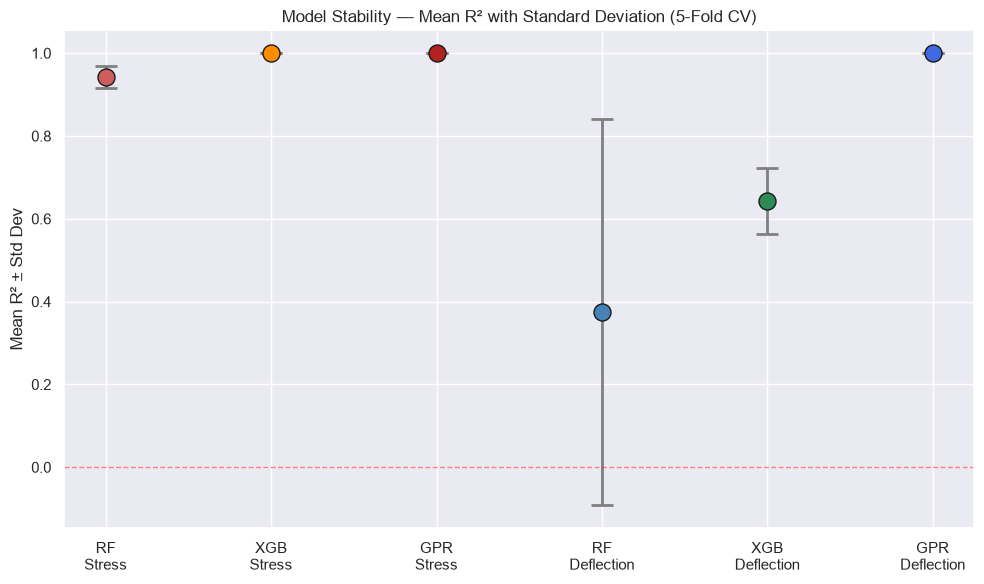
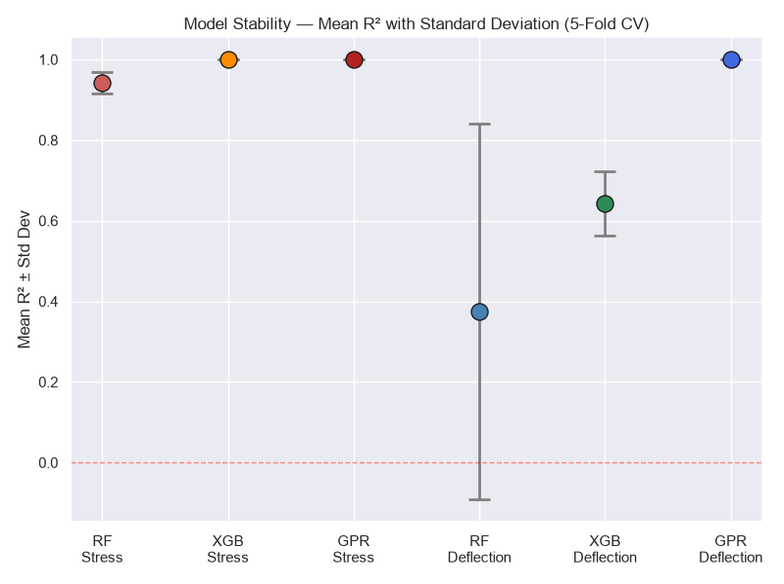
final polish of Github repo with README updated

diff --git a/README.md b/README.md
@@ -1,0 +1,382 @@
+# Wind Turbine Blade: Structural Analysis & ML Prediction
+
+An engineering design tool and machine learning framework that evaluates and predicts wind turbine blade structural responses—specifically **equivalent von-Mises stress** and **tip deflection**—under varying geometric shapes, materials, and aerodynamic wind loads.
+
+By bridging the gap between heavy numerical finite element simulations and rapid design iterations, this framework integrates **aerodynamic Blade Element Momentum (BEM) theory, parametric CAD modeling, FEA simulations, and predictive Machine Learning pipelines** into a single, cohesive workflow.
+
+---
+
+## Project Overview
+
+Designing wind turbine blades is a balancing act between aerodynamic output and structural limits. Evaluating a new blade geometry typically requires editing CAD models and running hours of computationally expensive Finite Element Analysis (FEA) inside solvers like ANSYS or Abaqus. This creates a severe bottleneck in the early exploration phase. 
+
+This repository solves this bottleneck. By training machine learning pipelines over a multi-variable parametric design space, we can bypass the heavy FEA steps during initial iterations. The result? **Instantaneous structural predictions**—learning the underlying patterns of stress and deflection from simulation data—allowing engineers to perform rapid parameter sweeps and design space exploration in seconds.
+
+```mermaid
+flowchart TD
+    A([CAD Design]) --> B([ANSYS Simulations])
+    B --> C[(Engineering Dataset)]
+    C --> D([Data Processing])
+    D --> E{{"Machine Learning"}}
+    E --> F([Random Forest])
+    E --> G([XGBoost])
+    E --> K([Gaussian Process])
+    F --> H([Model Evaluation])
+    G --> H
+    K --> H
+    H --> I([Sensitivity Analysis])
+    I --> J([Final GPR Model])
+
+    style A fill:#27ae60,stroke:#1e8449,stroke-width:1px,color:#fff
+    style B fill:#2980b9,stroke:#1f618d,stroke-width:1px,color:#fff
+    style C fill:#27ae60,stroke:#1e8449,stroke-width:1px,color:#fff
+    style D fill:#d35400,stroke:#a04000,stroke-width:1px,color:#fff
+    style E fill:#8e44ad,stroke:#6c3483,stroke-width:1px,color:#fff
+    style F fill:#c0392b,stroke:#922b21,stroke-width:1px,color:#fff
+    style G fill:#c0392b,stroke:#922b21,stroke-width:1px,color:#fff
+    style H fill:#2980b9,stroke:#1f618d,stroke-width:1px,color:#fff
+    style I fill:#27ae60,stroke:#1e8449,stroke-width:1px,color:#fff
+    style J fill:#8e44ad,stroke:#6c3483,stroke-width:1px,color:#fff
+    style K fill:#c0392b,stroke:#922b21,stroke-width:1px,color:#fff
+```
+
+---
+
+## Project Structure
+
+```
+├── ANSYS/              # FEA simulation scripts & results
+├── CAD/                # Parametric blade geometry models
+├── Dataset/            # Multi-variable training dataset
+├── Notes/              # Design iteration & research notes
+├── Python/             # Jupyter notebooks (exploration, training, analysis)
+├── Visualisations/     # Plots, charts & exported figures
+├── models/             # Serialized trained models
+├── src/                # Core Python package (processing, ML, utilities)
+├── predict.py          # CLI: one-shot structural prediction
+├── requirements.txt    # Python dependencies
+└── train_and_save_models.py  # CLI: train & persist ML models
+```
+
+---
+
+## Aerodynamics & Structural Physics Foundations
+
+### 1. Cantilever Beam Analogy
+Structurally, a wind turbine blade behaves like a tapered, twisted cantilever beam. The blade is rigidly fixed at the rotor hub (the root) and projects out freely to the tip, bearing the brunt of aerodynamic forces.
+
+* **Bending Moment ($M$):** $M(x) = \int_{x}^{L} q(r)(r - x) \, dr$, where $q(r)$ represents the aerodynamic line load distribution.
+* **Moment of Inertia ($I$):** For hollow airfoil profiles, bending stiffness is dictated by $E \cdot I$, where $E$ is the material's Young's Modulus and $I$ is the second moment of area (governed by the airfoil's chord and thickness).
+* **Normal Bending Stress ($\sigma$):** $\sigma = \frac{M \cdot y}{I}$, where $y$ is the distance from the cross-section's neutral axis to its outer fibers.
+
+### 2. High-Fidelity Power Scaling Laws
+Applying classical Euler-Bernoulli beam theory reveals that the blade's structural performance is highly sensitive to its physical dimensions:
+* **Deflection ($\delta$):** Scales proportionally to the fourth power of length ($L$) and inversely to the cube of the chord ($c$):
+  $$\delta \propto \frac{L^4}{c^3}$$
+* **Bending Stress ($\sigma$):** Scales with the square of length ($L$) and inversely with the square of the chord ($c$):
+  $$\sigma \propto \frac{L^2}{c^2}$$
+
+> **Why do these scaling exponents remain constant despite the complex twist and taper?** 
+> 
+> Under a steady wind load, total aerodynamic force scales with the projected blade area ($F \propto P \cdot L \cdot c$). Because our blade profiles are aerodynamically scaled (thickness is a constant ratio of local chord, $t \propto c$), the cross-sectional moment of inertia scales as $I \propto c^4$. 
+> 
+> While the blade is tapered and twisted along its span, **geometric self-similarity** is maintained—the relative taper profile ($c_{\text{tip}}/c_{\text{root}}$) and twist distribution relative to span fraction ($r/L$) remain identical across all models. When integrated along the length of the beam, these geometric variations condense into a constant, dimensionless scaling multiplier (a "shape factor"). Consequently, the twist and taper do not alter the underlying power exponents; the deflection and stress scaling laws remain intact.
+
+This means that modifying geometric dimensions—specifically extending blade lengths or adjusting chord taper—affects the structure far more aggressively than changing materials.
+
+<p align="center">
+  <img src="Visualisations/power_law_plots.png" width="90%" alt="Power Law Scaling Curves vs Simulation Data" />
+</p>
+
+### 3. Aerodynamic Loads, Betz Limit, and BEM Theory
+* **Lift ($L_F$) & Drag ($D_F$):** BEM theory calculates the aerodynamic loading by modeling the relative velocities at each span element, translating airfoil drag and lift distributions into axial and angular induction factors.
+* **Twist Distribution:** Because rotational velocity increases linearly toward the tip ($v = \Omega \cdot r$) while the incoming wind speed remains constant, the relative wind angle changes along the blade's span. We twist the blade from root to tip to maintain an optimal **Angle of Attack (AoA)**.
+* **Betz Limit & Wake Losses:** Fluid motion dictates that the maximum kinetic energy capture from wind is capped at **59.3%** (the Betz Limit). In practice, wake rotation (the swirl left in the wake of the rotor) reduces this efficiency, which is modeled using BEM theory induction factors.
+
+---
+
+## Parametric CAD & Mesh Convergence
+
+We parameterized the 3D blade geometry in Autodesk Fusion 360 using the aerodynamic **NACA 4412 airfoil profile**:
+
+<p align="center">
+  <img src="Visualisations/Desgin_and_initial_Simulation/NACA 4412 profile.png" width="48%" alt="NACA 4412 Profile Definition" />
+  <img src="Visualisations/Desgin_and_initial_Simulation/Blade_Design.png" width="48%" alt="Parametric Fusion 360 CAD Model" />
+</p>
+
+### 1. Chord Taper Formula
+To reduce excessive tip mass, minimize the bending moment arm, and decrease aerodynamical drag, the chord length decreases linearly from the root to the tip according to:
+$$c(r) = C_{\text{root}} \left( 1 - 0.7 \frac{r}{L_{\text{blade}}} \right)$$
+
+### 2. Twist Distribution
+The aerodynamic angle of attack changes progressively across the blade's span to maintain an optimal angle of attack:
+* **0% span (Hub/Root):** $14.0^\circ$
+* **25% span:** $10.5^\circ$
+* **50% span:** $7.5^\circ$
+* **75% span:** $4.7^\circ$
+* **100% span (Tip):** $2.0^\circ$
+
+### 3. Mesh Convergence Study
+Before generating our database, we performed a mesh sensitivity study inside ANSYS Mechanical to balance numerical accuracy and compute costs. By analyzing how different element sizes affect equivalent stress findings, we identified:
+* **Selected Element Size:** $3 \times 10^{-3}\text{ m}$ ($3\text{ mm}$) global size.
+* **Rationale:** This size is the exact convergence inflection point. Choosing smaller sizes yielded less than a $0.5\%$ change in stress values, while larger mesh sizes failed to capture the high-strain regions at the trailing edge.
+
+<p align="center">
+  <img src="Visualisations/Desgin_and_initial_Simulation/simulation-conditions.png" width="48%" alt="ANSYS Load and Boundary Conditions setup" />
+  <img src="Visualisations/Load_study/1000Pa_Equivalent_Stress.png" width="48%" alt="ANSYS equivalent stress contour result" />
+</p>
+
+---
+
+## Database Building (Design of Experiments)
+
+To compile our training dataset, we ran a full $3^4$ factorial Design of Experiments (DoE) in ANSYS Mechanical, executing and extracting **81 high-fidelity structural simulations** that cover the boundary extremes of our design envelope:
+
+### Parametric Design Levels:
+1. **Blade Length ($L_{\text{blade}}$):** $0.8\text{ m}$, $1.2\text{ m}$, $1.6\text{ m}$ (capturing small-to-utility scale limits)
+2. **Root Chord Length ($C_{\text{root}}$):** $150\text{ mm}$, $200\text{ mm}$, $300\text{ mm}$ (spanning slender to stocky geometries)
+3. **Applied Pressure (Wind Load):** $500\text{ Pa}$, $1000\text{ Pa}$, $1500\text{ Pa}$ (representing different wind load conditions from low to high)
+4. **Blade Material (Isotropic Properties):**
+   * **Aluminium Alloy:** $\rho = 2700\text{ kg/m}^3$, $E = 69\text{ GPa}$, $\nu = 0.33$
+   * **Fiberglass Composite:** $\rho = 1900\text{ kg/m}^3$, $E = 25\text{ GPa}$, $\nu = 0.22$
+   * **Carbon Fiber Composite:** $\rho = 1600\text{ kg/m}^3$, $E = 120\text{ GPa}$, $\nu = 0.28$
+
+All simulation outputs mapping peak equivalent stress (MPa) and tip deflection (mm) are stored in [Dataset/simulation_matrix_updated_info.csv](Dataset/simulation_matrix_updated_info.csv).
+
+---
+
+## Machine Learning Predictor
+
+Our machine learning subsystem trains regressors using `scikit-learn`. The architecture wraps preprocessing steps and regression estimators into fully unified, reproducible pipelines to avoid silent feature leakage.
+
+### Model Overviews
+* **Random Forest:** An ensemble method that constructs multiple decision trees during training to output the mean prediction of individual trees, reducing overfitting while capturing non-linear relationships.
+* **XGBoost:** A powerful gradient boosting implementation that builds decision trees sequentially, focusing on correcting the errors of previous trees to achieve highly accurate, fine-tuned predictions.
+* **Gaussian Process Regression (GPR):** A non-parametric Bayesian approach that models data as a distribution over functions. It provides not just predictions, but also a measure of uncertainty (confidence intervals) for every output, making it highly suitable for engineering applications.
+
+### Data Preprocessing
+To prepare simulation data for training:
+* **Numerical Features** (Blade Length, Root Chord, and Applied Load) are normalized using a `StandardScaler`.
+* **Categorical Features** (Material) are one-hot encoded.
+* **Information Isolation:** These estimators are combined under a `ColumnTransformer` embedded directly inside our pipeline. This ensures preprocessing parameters are only fit on training splits, preventing **data leakage** during cross-validation folds.
+
+### Model Performance Comparison (Test Set Metrics)
+
+We evaluated all three regressors on unseen test splits. The final Gaussian Process Regression (GPR) with an anisotropic RBF kernel achieved near-perfect performance on both targets:
+
+| Target | Metric | Random Forest | XGBoost | **GPR (Final)** |
+| :--- | :---: | :---: | :---: | :---: |
+| **Equivalent Stress** | MAE | 1.747 MPa | 0.072 MPa | **0.0013 MPa** |
+| | RMSE | 2.234 MPa | 0.086 MPa | **0.0016 MPa** |
+| | $R^2$ | 0.9388 | 0.9999 | **1.0000** |
+| **Deflection** | MAE | 11.299 mm | 11.512 mm | **0.0016 mm** |
+| | RMSE | 20.172 mm | 22.862 mm | **0.0031 mm** |
+| | $R^2$ | 0.6960 | 0.6097 | **1.0000** |
+
+### Cross-Validation Results
+
+A single train/test split can be misleading, so we repeated the comparison under **5-fold cross-validation** (shuffled, `random_state=42`). Every model was scored five times, giving us both the mean $R^2$ and a sense of how stable it is:
+
+| Target | Metric | Random Forest | XGBoost | **GPR** |
+| :--- | :---: | :---: | :---: | :---: |
+| **Equivalent Stress** | Mean $R^2$ (5-fold) | 0.941 ± 0.027 | 0.9997 ± 0.0005 | **1.0000 ± 0.0000** |
+| | Mean MAE | 1.801 ± 0.583 MPa | 0.082 ± 0.038 MPa | **0.0025 ± 0.0019 MPa** |
+| **Deflection** | Mean $R^2$ (5-fold) | 0.375 ± 0.466 | 0.644 ± 0.080 | **1.0000 ± 0.0000** |
+| | Mean MAE | 14.00 ± 8.33 mm | 11.89 ± 8.24 mm | **0.0026 ± 0.0024 mm** |
+
+<p align="center">
+  <img src="Visualisations/Notebook_Plots/cross_validation_r2_boxplot.png" width="48%" alt="5-fold CV R² boxplot comparison" />
+  <img src="Visualisations/Notebook_Plots/cross_validation_r2_mean_stdev.png" width="48%" alt="5-fold CV mean R² with standard deviation" />
+</p>
+
+**Key insights:**
+1. **GPR is perfect *and* consistent.** It achieves $R^2 = 1.0000$ in **every** fold for both targets (per-fold $R^2 = [1, 1, 1, 1, 1]$). So the near-perfect test scores aren't a one-off lucky split — the model generalizes this well every time.
+2. **Random Forest breaks down on deflection.** A CV $R^2$ of $0.375 \pm 0.466$ swings wildly between folds, sometimes near-zero, because it can't represent the $L^4$ power-law behaviour. It simply isn't a reliable deflection model.
+3. **XGBoost shows the same weakness as on the test set.** Strong on stress ($0.9997$), but drops to $0.644$ on deflection.
+4. **Cross-validation and the test set agree.** GPR is the only model that hits both targets consistently, in every fold. That's what drove the model selection below.
+
+### Model Selection Rationale
+
+GPR was chosen as the final model over Random Forest and XGBoost for three reasons:
+
+1. **First model to master both targets.** Random Forest was decent on stress (R² 0.939) but unreliable on deflection (R² 0.696). XGBoost was near-perfect on stress (R² 0.9999) but overfit deflection (R² 0.6097 vs 0.999 train). GPR achieves R² 1.0000 on **both**, with near-zero error across the board. One unified model for the entire prediction tool.
+
+2. **Uncertainty quantification built in.** Unlike tree-based methods that return point estimates, GPR is Bayesian — every prediction comes with a confidence interval. For engineering decisions, knowing *how sure the model is* matters as much as the prediction itself.
+
+3. **Extracts more from the same data.** The anisotropic RBF kernel learns a separate length scale per input feature, letting the model automatically discover which parameters matter and at what resolution. The log-transform wrapper (`TransformedTargetRegressor` with `func=np.log`) turns power-law relationships into roughly linear ones, so the GP fits steep, multi-scale targets without numerical strain.
+
+**Why is GPR this accurate?** It comes down to the kind of function FEA produces. Our targets are smooth and deterministic — same inputs, same outputs — and with a tiny noise term (`alpha = 1e-8`) a Gaussian Process behaves like an *exact interpolator*: the prediction passes right through every training point and fills the gaps with smooth curves. Random Forest and XGBoost can't do that. They're piecewise-constant, so on the steep $L^4$ deflection ramp they approximate with flat steps and simply saturate. The log-transform helps too, flattening these power laws into nearly straight lines that the RBF kernel fits easily. The catch: this accuracy only holds *inside* the trained envelope. Push past the design limits and the GP predictions drift, which is why the prediction tool blocks out-of-range inputs.
+
+### Model Learning Curves
+
+To diagnose model convergence and stability, we plotted GPR learning curves across training set size increments. Training and validation scores at each step were calculated using 5-fold cross-validation:
+* **Stress Predictor:** R² = 1.0 at every training size — the GP captures the stress function perfectly from the very first slice.
+* **Deflection Predictor:** Same result — R² = 1.0 throughout, no gap between train and validation scores.
+
+**Diagnosis:** Both models are "Well-fitted" — no overfitting, no underfitting, no indication that more data would meaningfully improve results. The 81 simulations contain enough information; GPR simply extracts it more completely than tree-based alternatives.
+
+<p align="center">
+  <img src="Visualisations/learning_curves.png" width="90%" alt="GPR Learning Curves — Stress & Deflection" />
+</p>
+
+### Key ML Insights:
+1. **Stress is purely geometric and material-independent.** Peak bending stress depends only on geometry and load — Young’s modulus does not appear in the stress formula. The GPR nails this smooth, deterministic relationship (R² 1.0, MAE 0.0013 MPa) because the ARD kernel easily separates the three geometric inputs from the three one-hot material columns (which it correctly learns to ignore).
+2. **Deflection requires joint geometry–material learning.** Deflection couples blade geometry (L⁴ power law) with material stiffness. The anisotropic RBF kernel handles this by assigning each input a dedicated length scale — a separate resolution for Blade Length (metre scale), Chord Length (centimetre scale), and material (binary). This per-feature adaptability is what lets GPR exceed tree-based models on a small 81-sample dataset.
+
+---
+
+## Sensitivity Analysis & Structural Recommendations
+
+Using the trained GPR models, we performed parameter sweeps across the full design boundary range to establish practical structural guidelines for blade optimization.
+
+### Design Variable Sensitivity Sweeps:
+To evaluate individual parameters, we swept each variable across its full range while holding baseline configurations constant at: $L = 1.2\text{ m}$, $C_{\text{root}} = 300\text{ mm}$, Carbon Fiber material, and Wind Load = $1000\text{ Pa}$.
+
+| Rank | Design Parameter | Bending Stress Sweep | Tip Deflection Sweep | System Influence | Engineering Rationale |
+| :---: | :--- | :---: | :---: | :---: | :--- |
+| **1** | **Blade Length** | 4.02× increase | 15.59× increase | **Critical** | Governs the bending moment lever arm ($\delta \propto L^4$). |
+| **2** | **Chord Length** | 4.02× decrease | 7.43× decrease | **Critical** | Controls cross-sectional moment of inertia. |
+| **3** | **Blade Material** | ~1.0× (No effect) | 4.80× reduction | **Moderate** | Governs structural deflection only; has no effect on stress. |
+| **4** | **Applied Load** | 3.00× increase | 3.00× increase | **Moderate** | Dictates bending moment ($\sigma \propto M \propto F$). |
+
+### Verifying the Power Scaling Laws
+The sweep ratios match the Euler-Bernoulli scaling laws introduced in the theory section. By performing 50-point dense sweeps through the trained GPR surrogate and fitting log-linear power-law regressions to the resulting curves, we recover the theoretical exponents with remarkable fidelity:
+
+| Relationship | Theory | GPR Fitted Exponent | Deviation |
+| :--- | :---: | :---: | :---: |
+| Deflection vs Blade Length | $\delta \propto L^4$ | 4.02 | +0.5% |
+| Stress vs Blade Length | $\sigma \propto L^2$ | 2.04 | +2.0% |
+| Deflection vs Chord Length | $\delta \propto c^{-3}$ | −2.94 | −2.0% |
+| Stress vs Chord Length | $\sigma \propto c^{-2}$ | −2.04 | −2.0% |
+
+The plot below overlays the continuous GPR surrogate predictions (solid curves) against the theoretical power laws (dashed grey) normalised at the sweep midpoint. The near-perfect overlap demonstrates that the Gaussian Process has internalised the underlying beam mechanics from the 81-sample FEA dataset — without any physics constraints imposed during training.
+
+<p align="center">
+  <img src="Visualisations/Notebook_Plots/gpr_power_law_verification.png" width="90%" alt="GPR Surrogate Verification Against Theoretical Power Scaling Laws" />
+</p>
+
+The remaining two parameters complete the picture. **Applied load** scales linearly with both stress and deflection ($\sigma \propto F$, $\delta \propto F$), and the GPR model captures this exactly — a 3× increase in load (500 → 1500 Pa) produces a **3.00×** increase in both targets, matching the theoretical prediction to three significant figures.
+
+<p align="center">
+  <img src="Visualisations/Notebook_Plots/sensitivity_gpr_applied_load.png" width="90%" alt="GPR Sensitivity — Applied Load" />
+</p>
+
+**Material stiffness** ($E$) enters the beam equations only through the bending stiffness term $EI$. Because stress is governed by the ratio $M/I$ (where $I \propto c^4$), Young's modulus cancels out entirely — the GPR confirms this with a stress ratio of **1.0003×** across all three materials. Deflection, however, scales as $\delta \propto 1/E$. The model predicts a **4.80×** reduction from Fiberglass ($E \approx 25\text{ GPa}$) to Carbon Fiber ($E \approx 120\text{ GPa}$), matching the theoretical ratio $120/25 = 4.8$ exactly.
+
+### Core Engineering Insights:
+1. **Curbing Deflection:** Deflection is dominated by blade length — extending from $0.8\text{ m}$ to $1.6\text{ m}$ produces a **15.6×** increase. To prevent structural tower strikes, designers must increase root chord or switch to stiffer materials. Specifically, Carbon Fiber reduces tip deflection by **4.8×** compared to Fiberglass.
+2. **Minimizing Stress Concentrations:** Since material stiffness ($E$) does not affect peak stress (ratio 1.0003×), changing materials is ineffective for stress mitigation. Peak stress reduction must be solved geometrically — shortening the moment arm ($L$) or enlarging the root chord ($c$), each reducing stress by **4.0×** across the design range.
+
+---
+
+## Getting Started
+
+### 1. Environment Setup
+This project requires **Python 3.10+**. To set up the local virtual environment and install all packages:
+
+**Windows (Command Prompt or PowerShell):**
+```bash
+# Navigate to the project root directory
+cd Wind_Turbine_Project
+
+# Create a virtual environment
+python -m venv .venv
+
+# Activate the virtual environment
+.venv\Scripts\activate
+
+# Install local package dependencies
+pip install -r requirements.txt
+```
+
+**macOS / Linux:**
+```bash
+# Navigate to the project root directory
+cd Wind_Turbine_Project
+
+# Create a virtual environment
+python3 -m venv .venv
+
+# Activate the virtual environment
+source .venv/bin/activate
+
+# Install local package dependencies
+pip install -r requirements.txt
+```
+
+### 2. Model Training
+To retrain the regression pipelines from raw simulation logs and save the serialized models directly to the `models/` directory:
+
+```bash
+python train_and_save_models.py
+```
+
+### 3. Interactive Predictions
+To compute predictions for custom configurations in real-time, launch the command-line evaluation tool:
+
+```bash
+python predict.py
+```
+
+#### Example Interactive Command Line Run:
+This example deliberately uses an **off-grid configuration** — no input sits at a DoE level, so this exact combination was never part of the 81 training simulations. The results below are genuine surrogate interpolation, not a memorized FEA answer.
+
+```text
+======================================================================
+                 Wind Turbine Blade Prediction System                 
+======================================================================
+
+Loading trained models...
+✓ Models loaded successfully!
+
+Please enter the blade parameters:
+
+Blade Length (m): 1.3
+Chord Length (mm): 180
+
+Available materials: Aluminium, Fiberglass, Carbon fiber
+Material: Carbon fiber
+Applied Load (Pa): 1200
+
+Input Parameters:
+├─ Blade Length  : 1.30 m
+├─ Chord Length  : 180 mm
+├─ Material      : Carbon fiber
+└─ Applied Load  : 1200 Pa
+
+Computing predictions...
+
+──────────────────────────────────────────────────────────────────────
+Prediction Results:
+──────────────────────────────────────────────────────────────────────
+
+  Maximum Equivalent Stress:
+    19.42 MPa
+
+  Maximum Deflection:
+    14.05 mm
+
+──────────────────────────────────────────────────────────────────────
+
+======================================================================
+
+Make another prediction? (y/n): n
+
+Thank you for using the Wind Turbine Blade Prediction System!
+```
+
+The application warns you immediately if your inputs exceed training limits, maintaining strict bounds compliance.
+
+---
+
+## Limitations & Future Work
+
+* **Static Loading Assumption:** Currently, the loadings are modeled as steady-state pressure profiles, neglecting transient turbine rotation forces (centrifugal tension, Coriolis acceleration, gravity cycles).
+* **Isotropic Materials:** Structural FEA calculations assume isotropic material properties. Modeling fiber-reinforced FRP composite laminates using anisotropic ply layups would enhance accuracy.
+* **Aerodynamic Coupling:** Real wind turbine blades undergo structural deflection under aerodynamic lift and drag, which changes the blade angle of attack. This elastic feedback loop (Fluid-Structure Interaction - FSI) is not captured by decoupled static models.
+* **Rotor Fatigue:** The simulation does not perform fatigue cycles analysis, which governs commercial blade design operating lives (typically 20-30 years).
+* **Surrogate & Analysis Scope:** The model is only valid within the sampled design envelope (0.8–1.6 m, 150–300 mm chord, 500–1500 Pa, three materials) — beyond it the GP has no training support. It is validated against ANSYS alone, never a physical blade, and the 81-point grid fills gaps via the kernel's smoothness assumption. The underlying FEA also assumes small deflections, so nonlinear behaviour at the envelope's extremes is not captured.
+
+---
+
+Developed by Anish Gangavaram.
